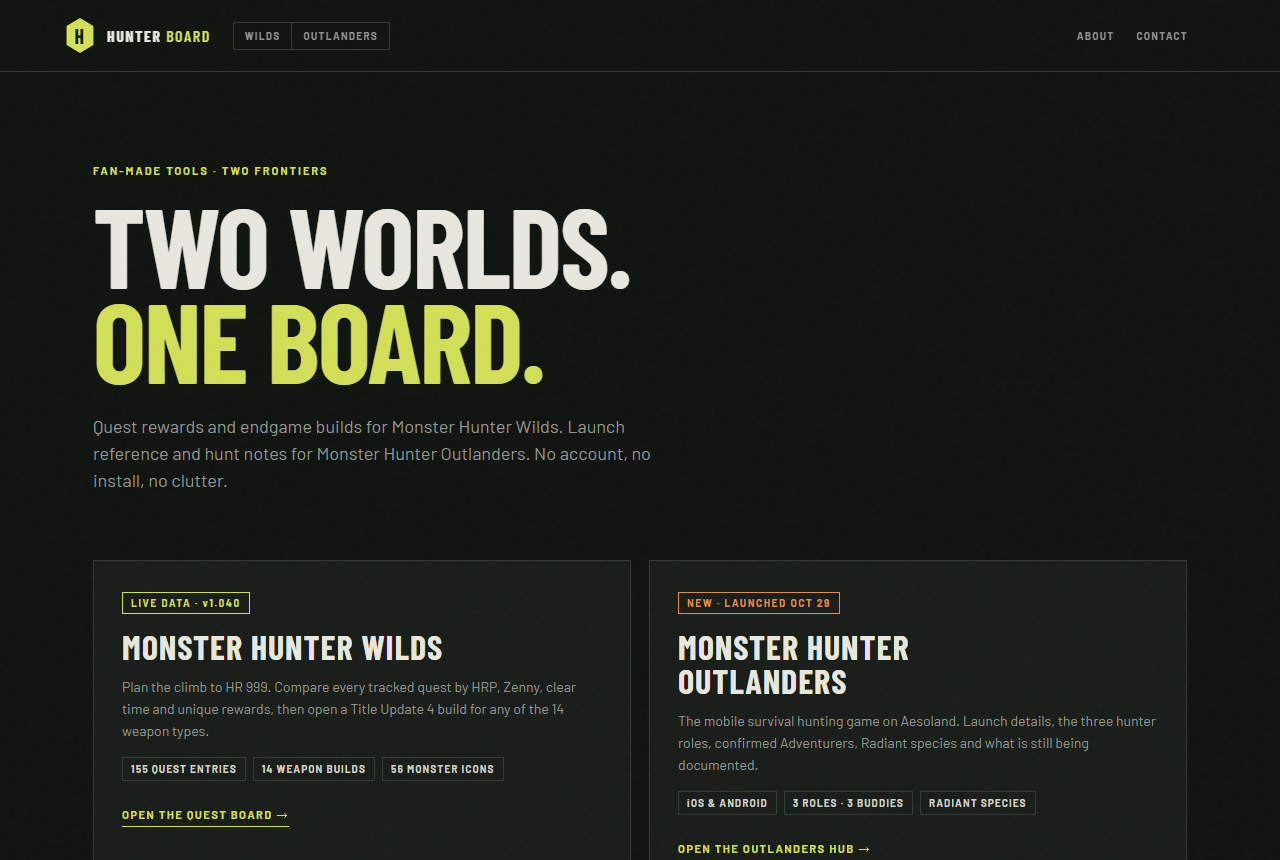
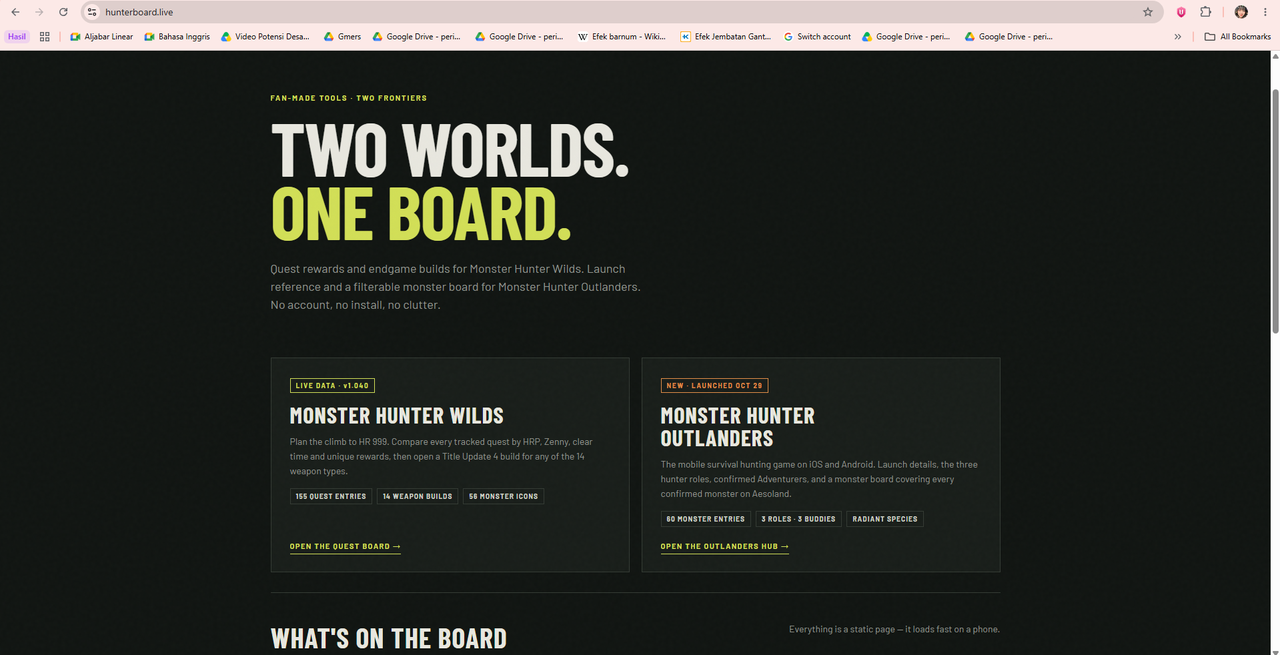
feat: perbarui galeri Hunter Board dan Pemesanan ATK, samakan urutan Work Project

diff --git a/src/content/projects/pemesanan-atk.md b/src/content/projects/pemesanan-atk.md
@@ -7,6 +7,10 @@ role: "Solo Developer"
 period: "2026"
 tech: ["Odoo 10", "Python", "PostgreSQL", "XML/QWeb", "report_xlsx"]
 repo: "https://github.com/anzaniy/PemesananATK"
+gallery:
+  - "/images/projects/pemesanan-atk-1.png"
+  - "/images/projects/pemesanan-atk-2.png"
+  - "/images/projects/pemesanan-atk-3.png"
 order: 3
 ---
 

diff --git a/src/content/projects/hunter-board.md b/src/content/projects/hunter-board.md
@@ -10,7 +10,6 @@ gallery:
   - "/images/projects/hunter-board-1.png"
   - "/images/projects/hunter-board-2.png"
   - "/images/projects/hunter-board-3.png"
-  - "/images/projects/hunter-board-4.png"
 repo: "https://github.com/anzaniy/HunterBoard"
 demo: "https://hunterboard.live/"
 order: 1

diff --git a/src/content/projects/musely.md b/src/content/projects/musely.md
@@ -9,6 +9,7 @@ tech: ["Rust", "Tauri v2", "TypeScript", "HTML", "CSS", "LRCLIB API"]
 gallery:
   - "/images/projects/musely-1.png"
   - "/images/projects/musely-2.png"
+  - "/images/projects/musely-3.png"
 repo: "https://github.com/anzaniy/Musely"
 order: 2
 ---
